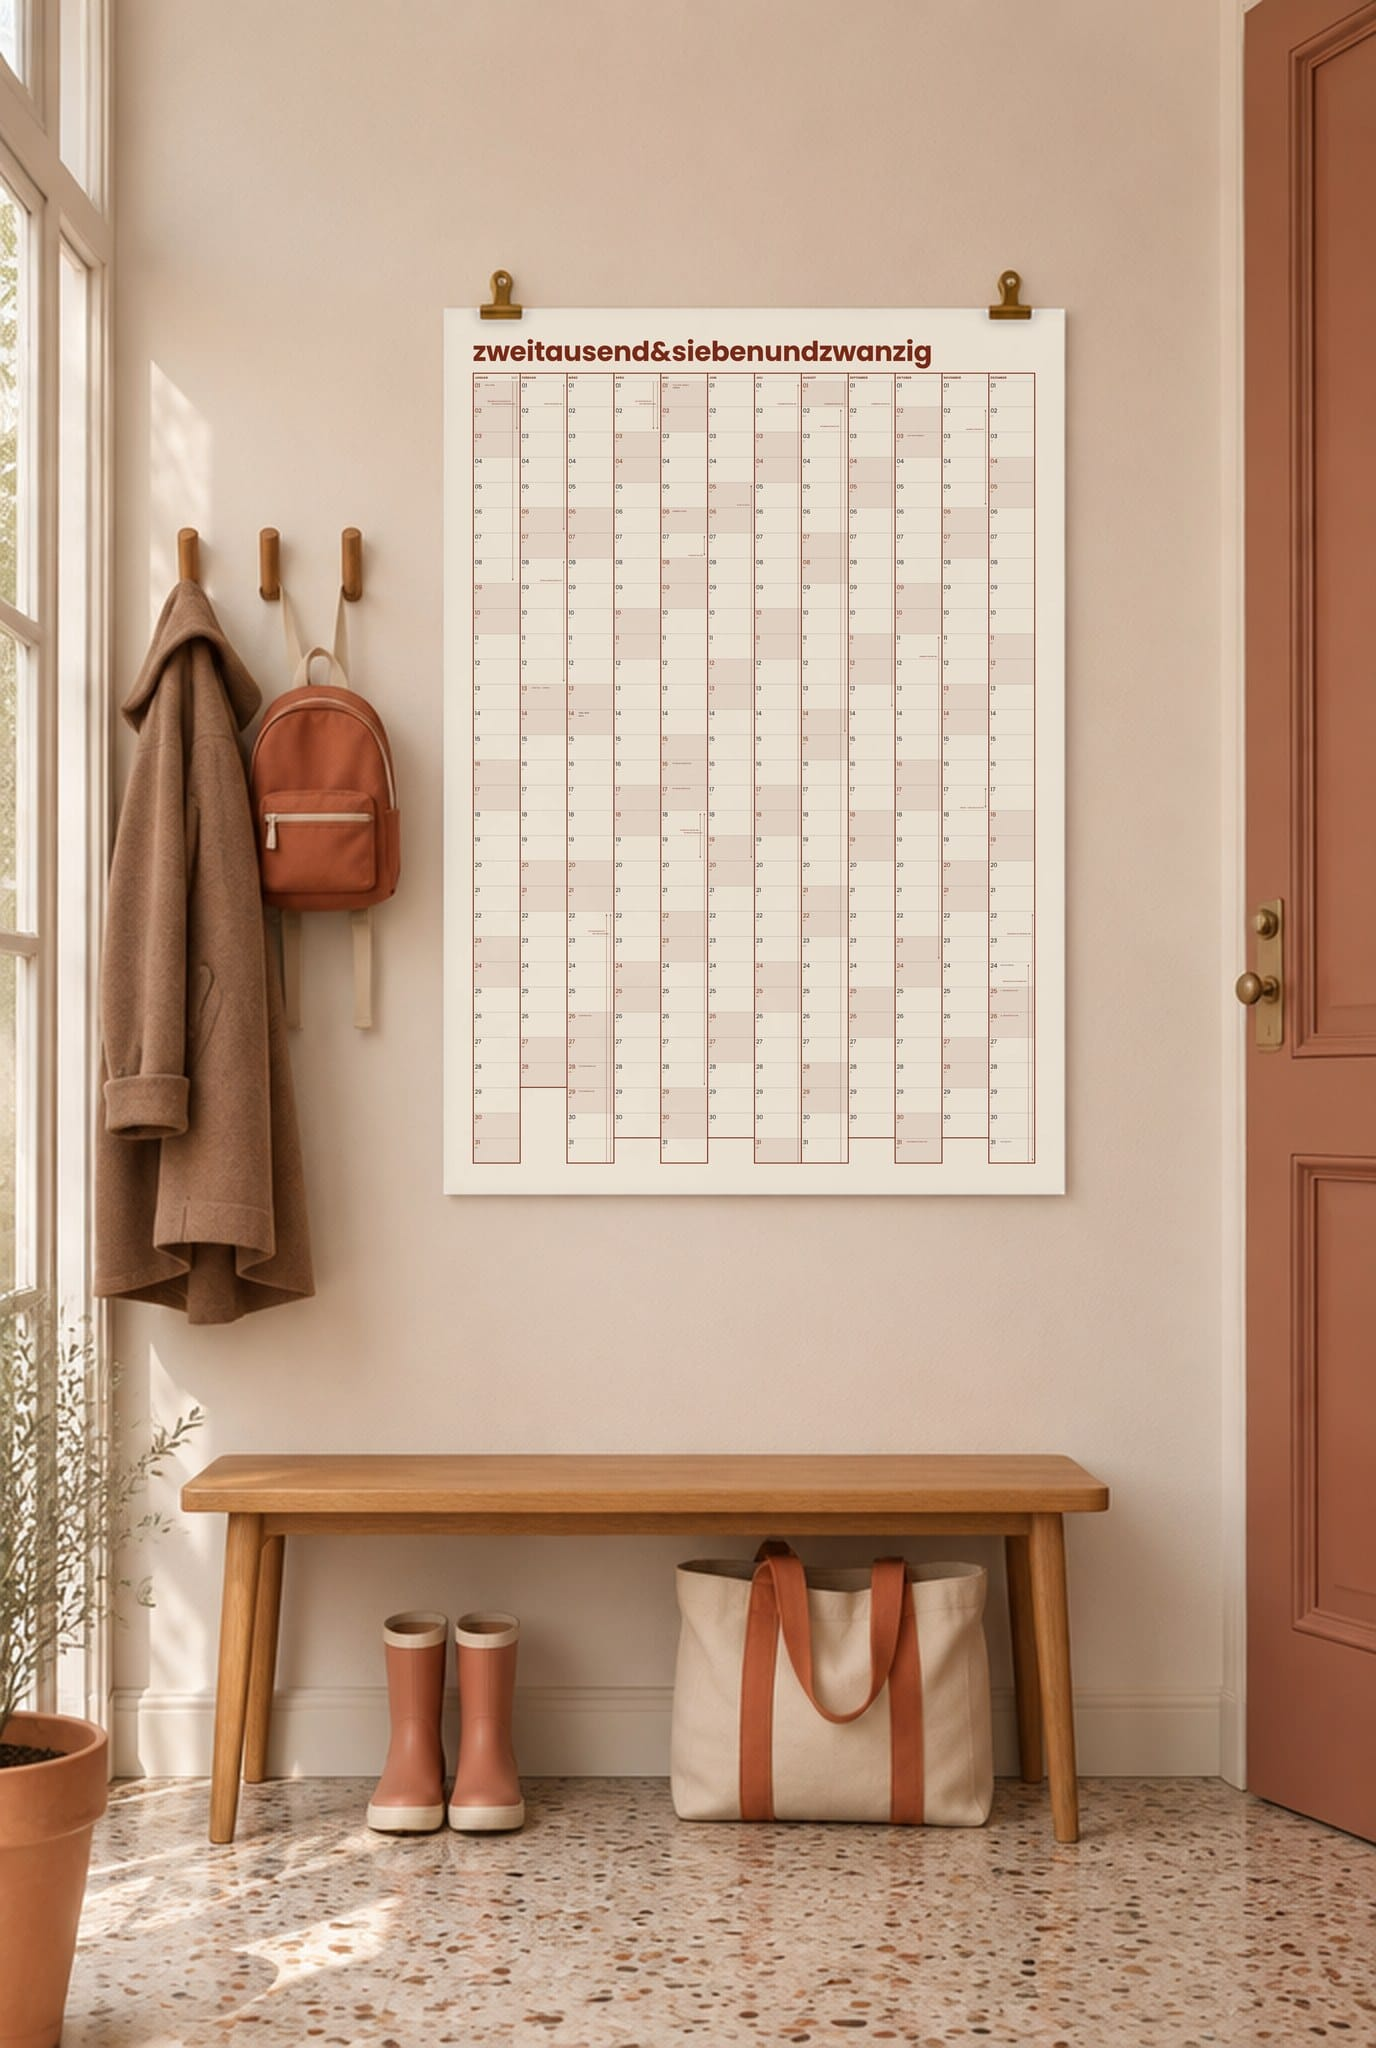
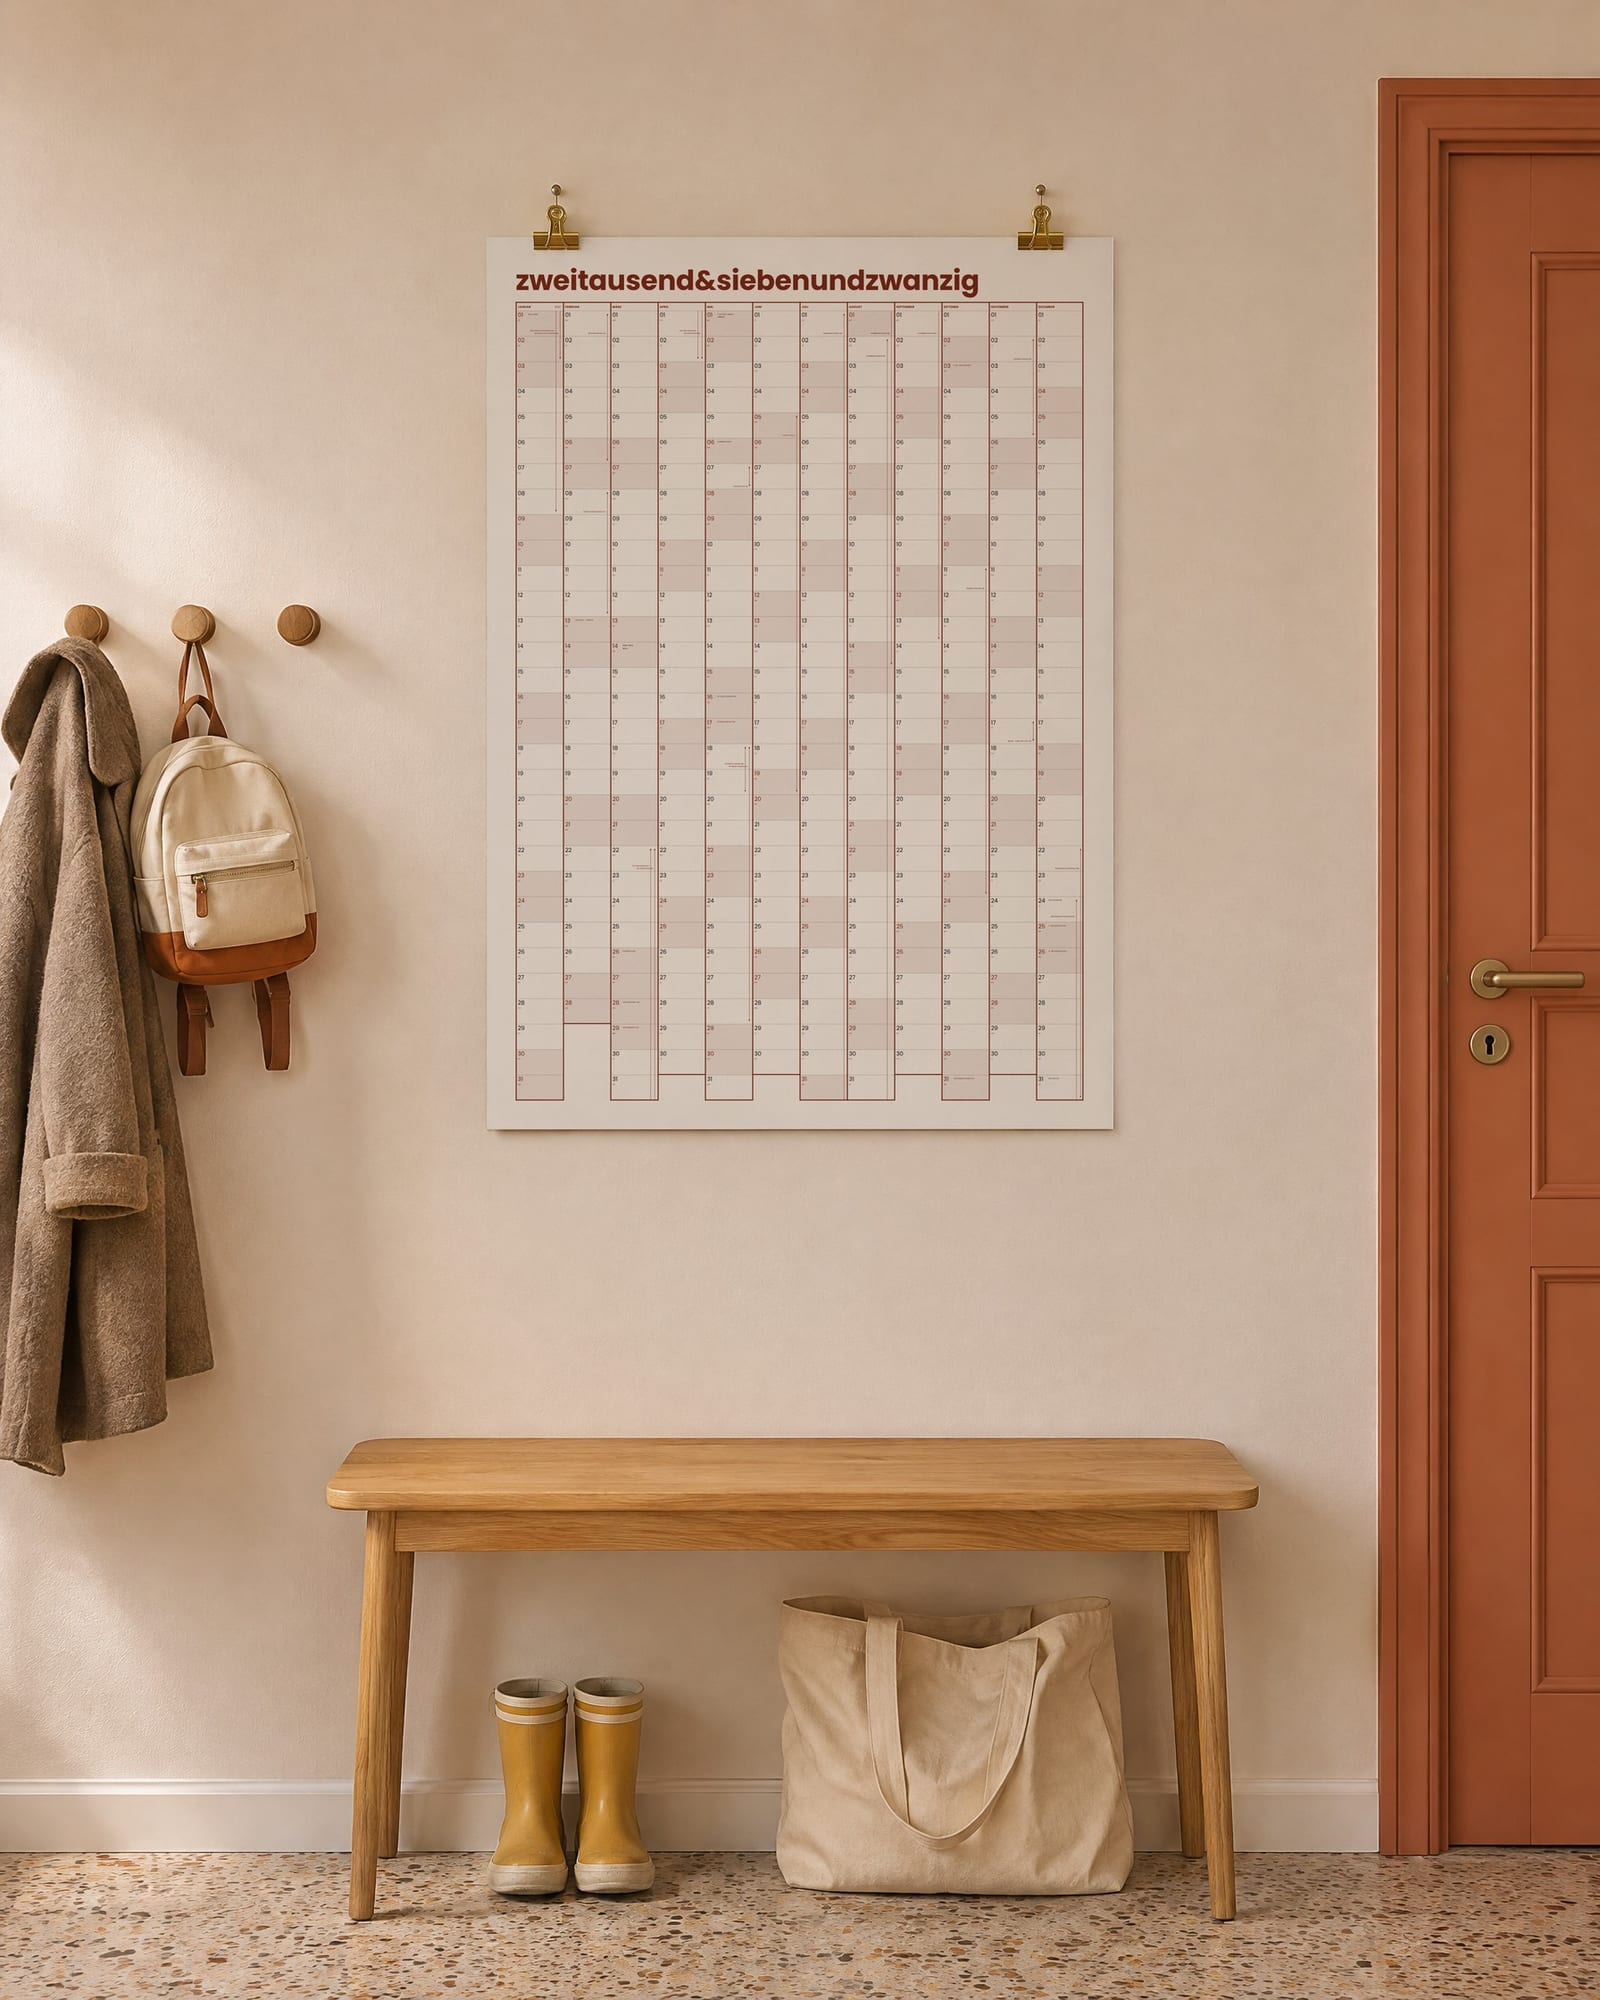
Replace the room scenes with true-to-scale ones on a blank sheet
The sheet is left blank in the photo so the page can draw the planner on it
live. scripts/mockup holds the sheet finder and the flat composite used for
emails and link previews.

Claude-Session: https://claude.ai/code/session_01TxneH8fXEjJjjKsTg9jrqk

diff --git a/scripts/mockup/find-sheet.py b/scripts/mockup/find-sheet.py
@@ -1,0 +1,19 @@
+import sys, numpy as np
+from PIL import Image, ImageFilter
+def edges(profile, c, lo, hi):
+    d=np.diff(profile); 
+    left=lo+int(np.argmax(d[lo:c]))+1      # strongest rise before centre
+    right=c+int(np.argmin(d[c:hi]))        # strongest fall after centre (last sheet pixel)
+    return left,right
+def detect(path, cx, cy, hw, hh):
+    im=Image.open(path).convert('L'); W,H=im.size
+    a=np.asarray(im.filter(ImageFilter.GaussianBlur(1.2))).astype(np.float32)
+    px,py=int(cx*W),int(cy*H); bx,by=int(0.03*W),int(0.03*H)
+    xs=[];ys=[]
+    for off in (-2,-1,0,1,2):
+        r=a[py+off*by-8:py+off*by+8].mean(0); xs.append(edges(r,px,int((cx-hw)*W),int((cx+hw)*W)))
+        c=a[:,px+off*bx-8:px+off*bx+8].mean(1); ys.append(edges(c,py,int((cy-hh)*H),int((cy+hh)*H)))
+    xs=np.array(xs);ys=np.array(ys)
+    x0,x1=int(np.median(xs[:,0])),int(np.median(xs[:,1])); y0,y1=int(np.median(ys[:,0])),int(np.median(ys[:,1]))
+    print(path,'x',xs.T.tolist(),'y',ys.T.tolist()); print(' bbox',x0,y0,x1-x0+1,y1-y0+1,'ratio %.4f'%((x1-x0+1)/(y1-y0+1)))
+detect(sys.argv[1],*map(float,sys.argv[2:6]))

diff --git a/scripts/mockup/flatten.py b/scripts/mockup/flatten.py
@@ -1,0 +1,10 @@
+"""Place a planner render on the blank sheet of a room scene (multiply, so the room's light stays on the paper).
+usage: flatten.py room.png planner.png out.jpg x y width   (sheet's top-left corner and width in room pixels)"""
+import sys, numpy as np
+from PIL import Image
+room, planner, out = sys.argv[1:4]; x, y, w = map(int, sys.argv[4:7])
+a = np.asarray(Image.open(room).convert('RGB')).astype(np.float32)
+p = Image.open(planner).convert('RGB'); h = round(w * p.height / p.width)
+pa = np.asarray(p.resize((w, h), Image.LANCZOS)).astype(np.float32)
+a[y:y+h, x:x+w] = a[y:y+h, x:x+w] * pa / 255
+Image.fromarray(a.astype(np.uint8)).save(out, quality=90)
